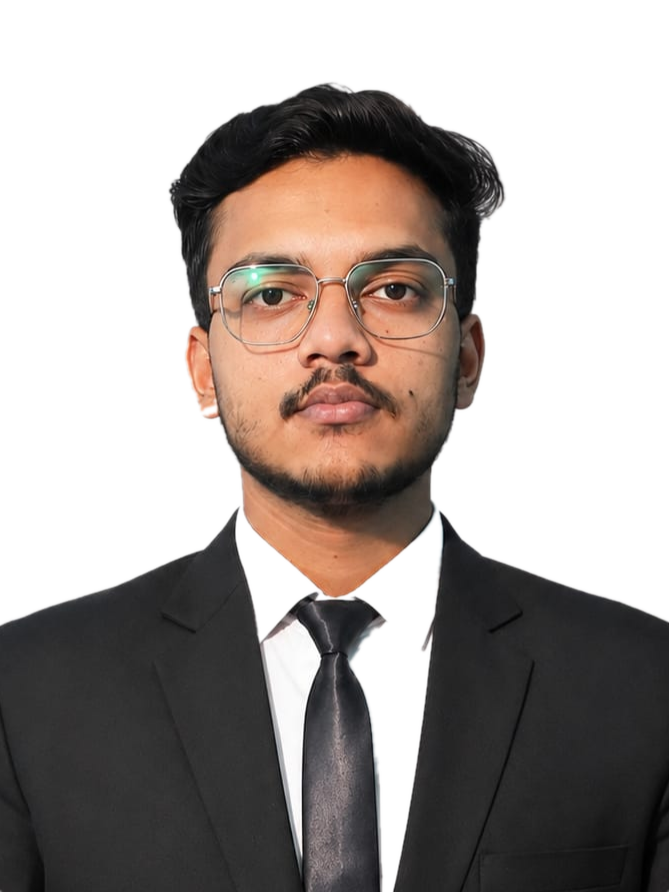
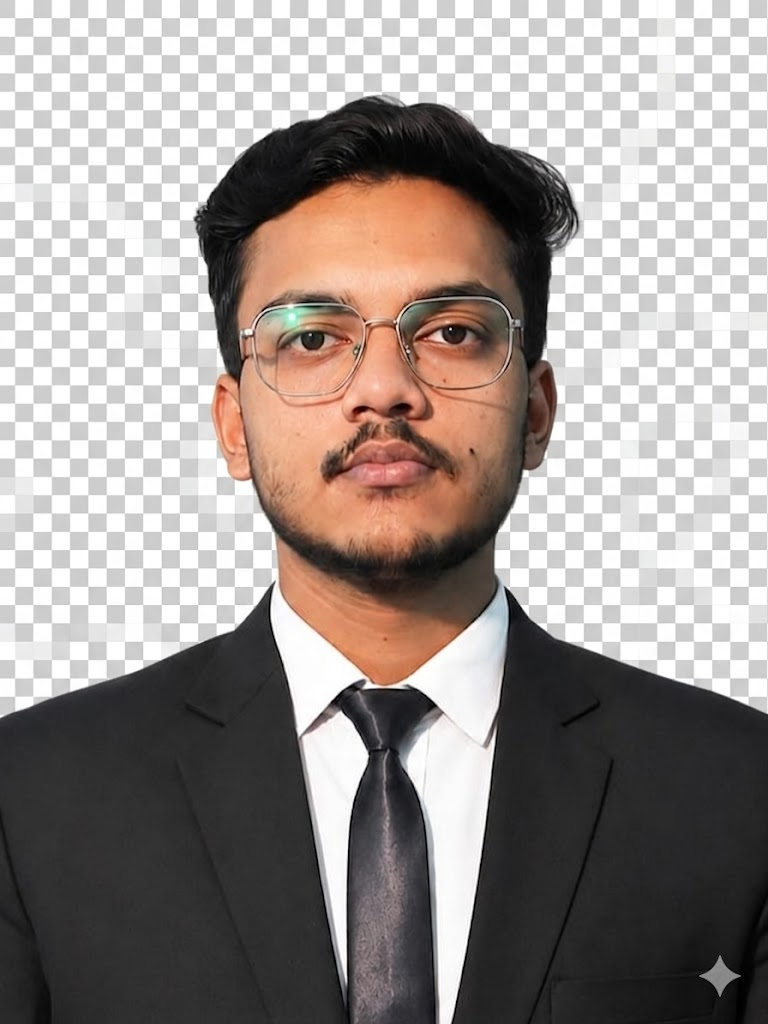
feat: resize portal, remove hover effect, make pop-out static, and customize tags

diff --git a/index.html b/index.html
@@ -445,17 +445,17 @@
         }
         .portal-hexagon {
             position: relative;
-            width: 320px;
-            height: 360px;
+            width: 260px;
+            height: 290px;
             display: flex;
             justify-content: center;
             align-items: center;
-            filter: drop-shadow(0px 20px 40px rgba(0, 0, 0, 0.6));
+            filter: drop-shadow(0px 15px 30px rgba(0, 0, 0, 0.5));
         }
         @media (min-width: 768px) {
             .portal-hexagon {
-                width: 400px;
-                height: 450px;
+                width: 320px;
+                height: 360px;
             }
         }
         .portal-frame {
@@ -483,26 +483,17 @@
             left: 0;
             width: 100%;
             height: 100%;
-            background: var(--surface-container-low);
-            background-image: repeating-linear-gradient(
-                0deg,
-                var(--background),
-                var(--background) 4px,
-                var(--surface-container-high) 4px,
-                var(--surface-container-high) 8px
-            );
-            opacity: 0.9;
+            background: linear-gradient(135deg, var(--surface-container-high), var(--surface-container-low));
         }
         .portal-img {
             position: absolute;
             bottom: -5%;
             left: 50%;
-            transform: translateX(-50%) scale(1.1);
+            transform: translateX(-50%) scale(1.18);
             transform-origin: bottom center;
             width: 105%;
             height: 105%;
             object-fit: contain;
-            transition: transform 0.4s cubic-bezier(0.25, 1, 0.5, 1);
         }
         .portal-unclipped {
             position: absolute;
@@ -514,9 +505,6 @@
             z-index: 4;
             pointer-events: none;
             overflow: hidden;
-        }
-        .portal-hexagon:hover .portal-img {
-            transform: translateX(-50%) scale(1.18);
         }
         .floating-badge {
             position: absolute;
@@ -537,8 +525,8 @@
             font-size: 12px; font-weight: 500; letter-spacing: 0.05em;
             color: var(--primary);
         }
-        .badge-left  { left: -32px; top: 25%; }
-        .badge-right { right: -16px; bottom: 33%; }
+        .badge-left  { left: -15px; top: 25%; z-index: 10; }
+        .badge-right { right: -15px; bottom: 30%; z-index: 10; }
 
         /* =============================================
            EDUCATION SECTION (Timeline)
@@ -1548,11 +1536,11 @@
             </div>
             <div class="floating-badge badge-left">
                 <span class="material-symbols-outlined" style="font-variation-settings: 'FILL' 1;">model_training</span>
-                <span>DS / ML</span>
+                <span>DS &amp; ML</span>
             </div>
             <div class="floating-badge badge-right">
                 <span class="material-symbols-outlined" style="font-variation-settings: 'FILL' 1;">code</span>
-                <span>SD</span>
+                <span>Software Dev</span>
             </div>
         </div>
     </section>